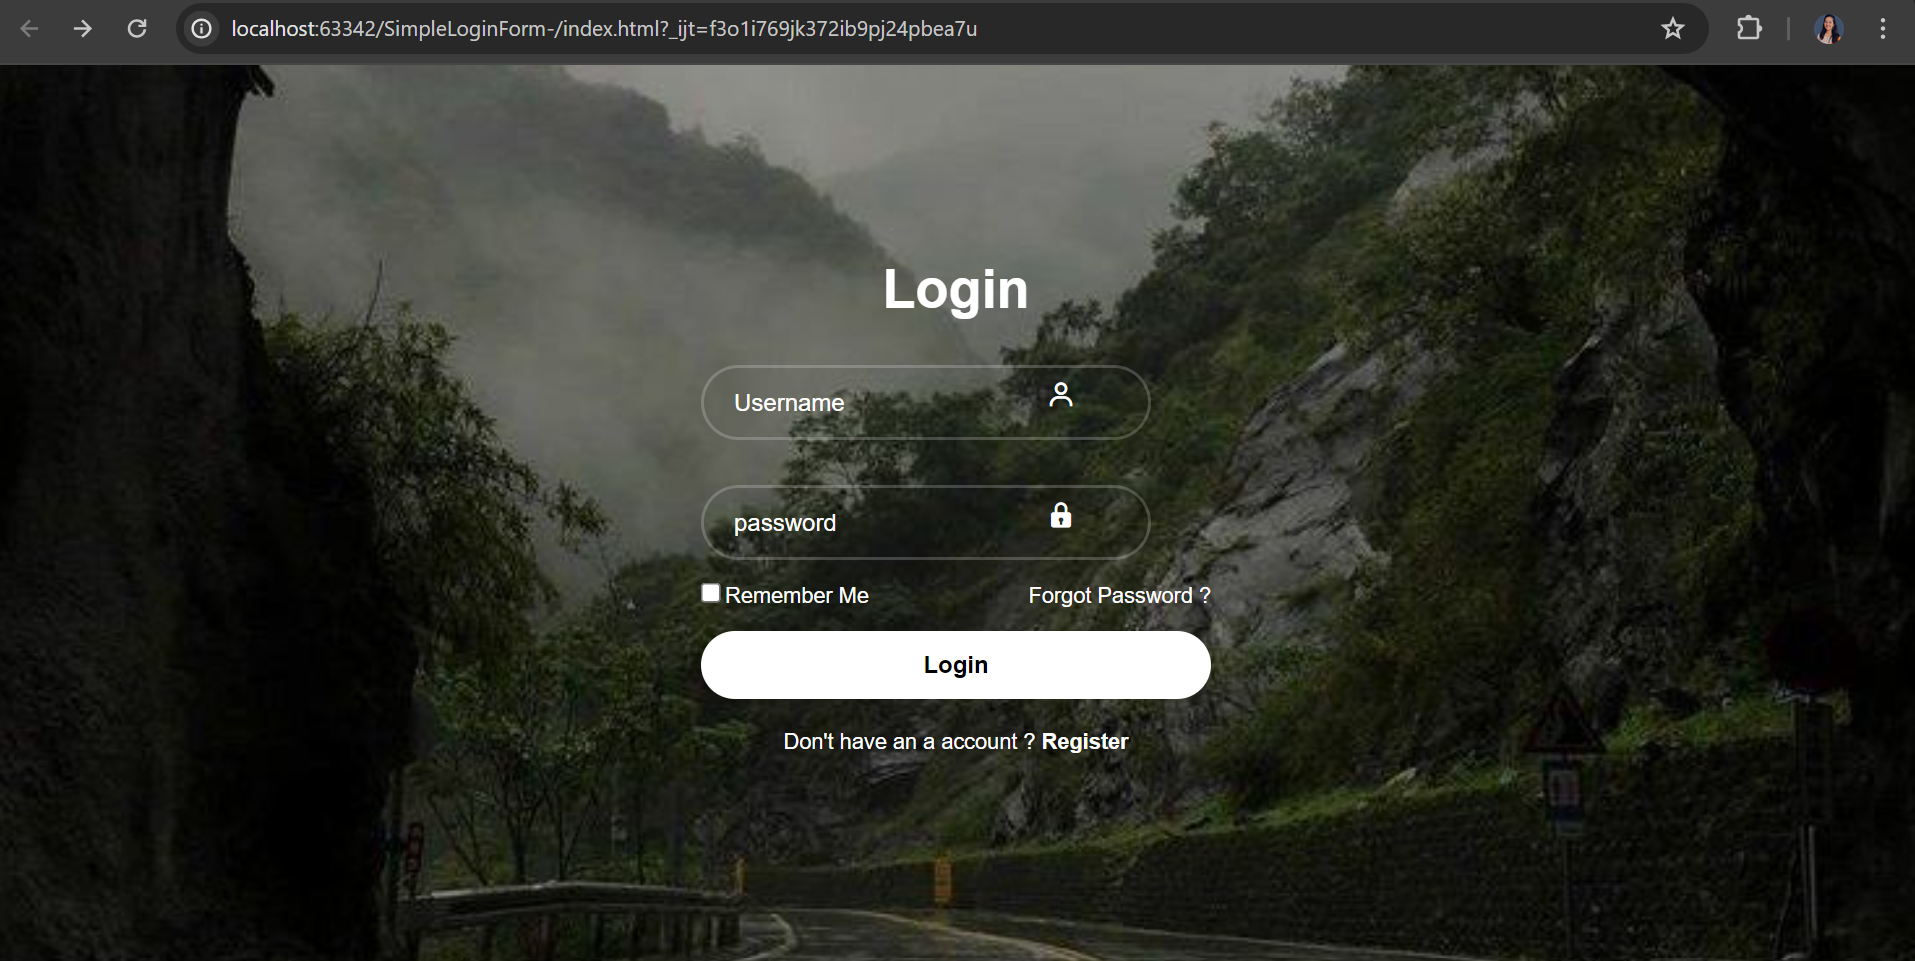
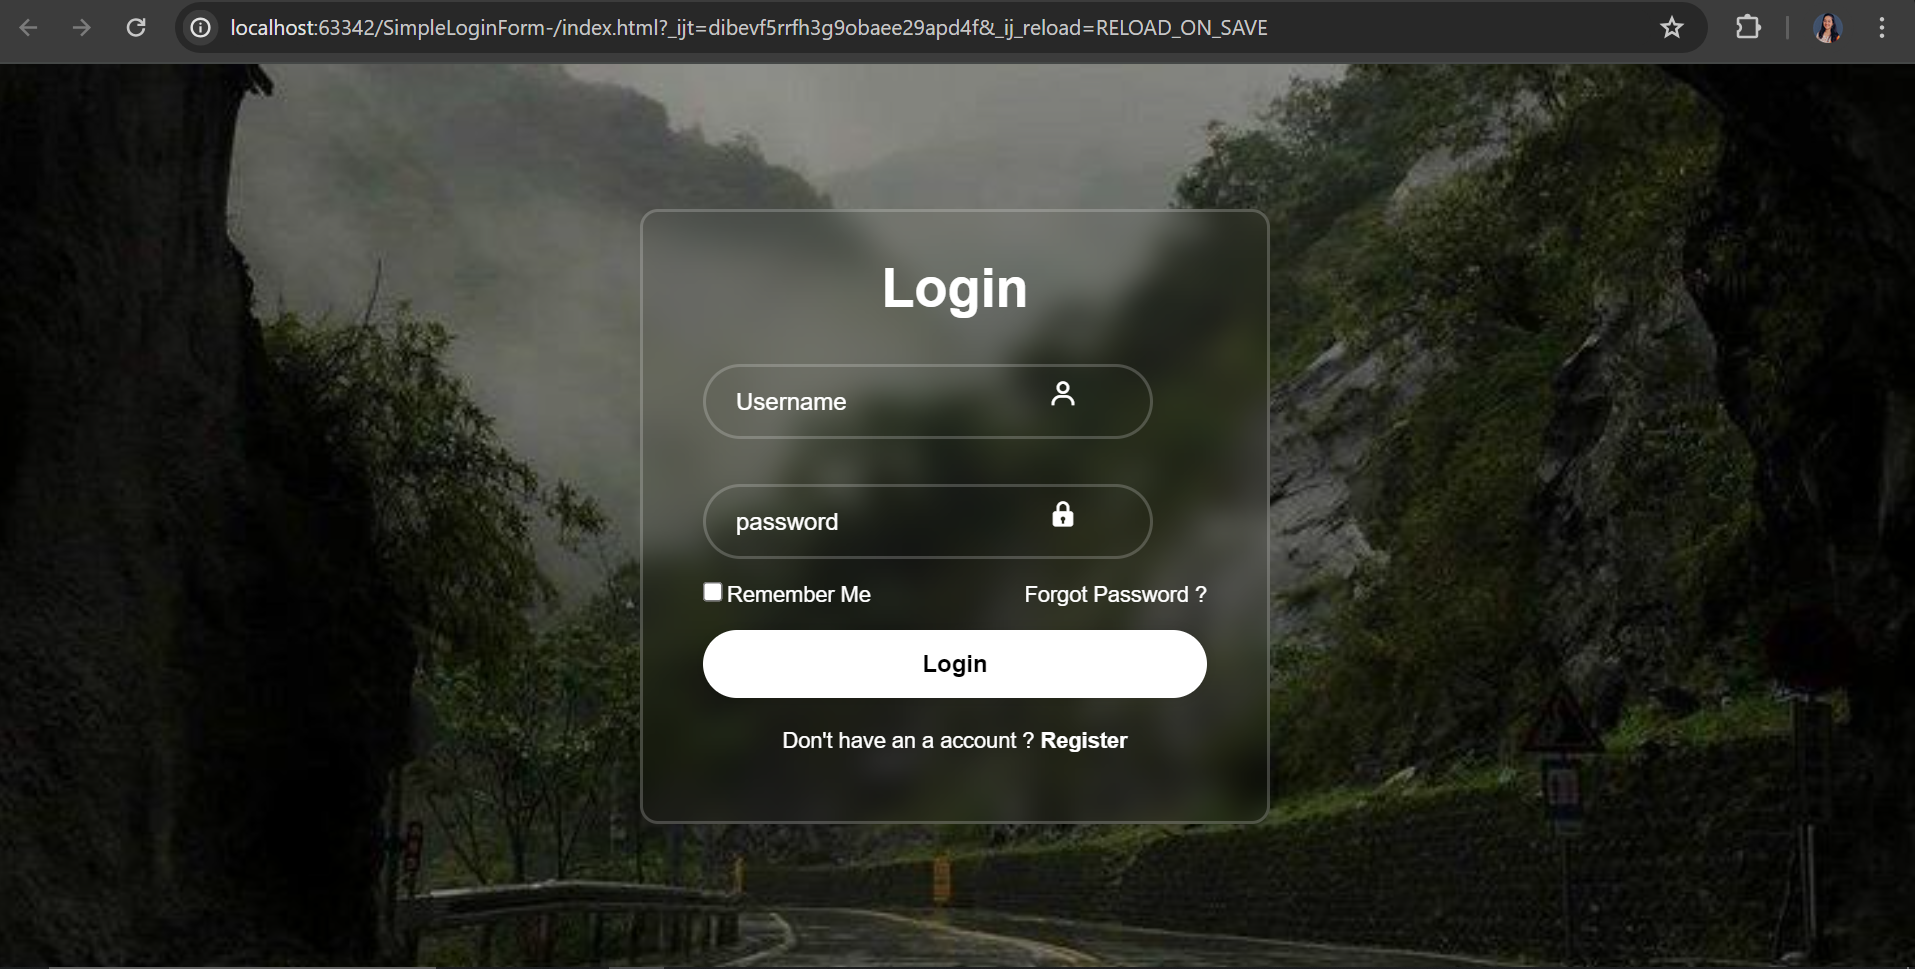
added changes in styles.css

diff --git a/styles.css b/styles.css
@@ -16,9 +16,12 @@ body{
 .wrapper{
     width: 420px;
     background: transparent;
+    border: 2px solid rgba(255,255,255,.2);
+    backdrop-filter: blur(10px);
     color: white;
     border-radius: 12px;
     padding: 30px 40px 30px 40px;
+
 }
 .wrapper h1{
     font-size: 36px;
